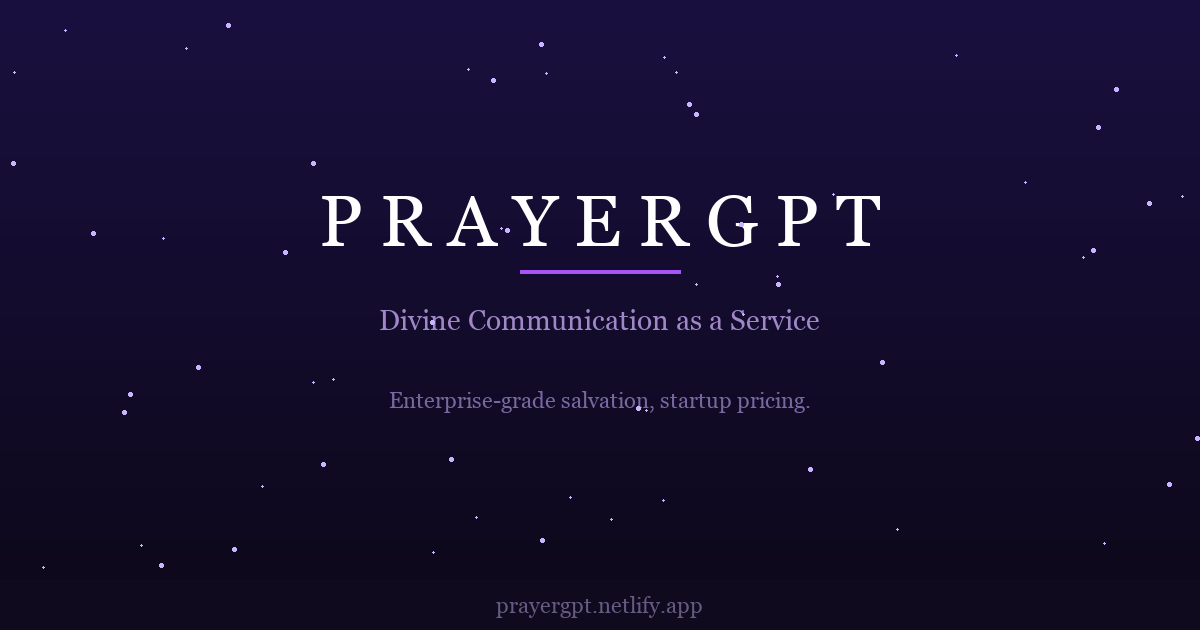
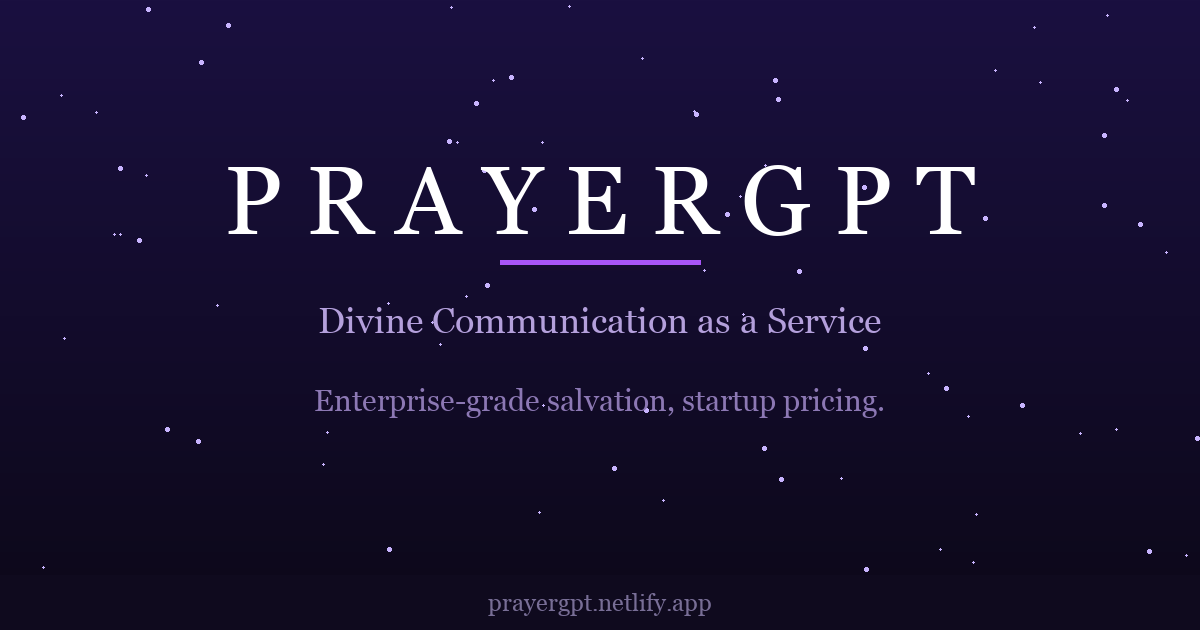
QA fixes: strip markdown from prayers, fix status indicator, improve OG image
- Tell LLM to output plain text (no markdown formatting)
- Strip ** and # from prayer text as fallback
- Fix last status step staying purple after completion
- Regenerate OG preview image with larger, more readable text

diff --git a/src/App.jsx b/src/App.jsx
@@ -186,10 +186,10 @@ export default function PrayerGPT() {
 
       var data = await response.json();
       clearInterval(interval);
-      setStatusIdx(STATUS_STEPS.length - 1);
+      setStatusIdx(STATUS_STEPS.length);
 
       if (data.prayer) {
-        var text = data.prayer;
+        var text = data.prayer.replace(/\*\*/g, "").replace(/^#+\s/gm, "");
         setPrayerText(text);
         var idx = 0;
         var streamInterval = setInterval(function () {
